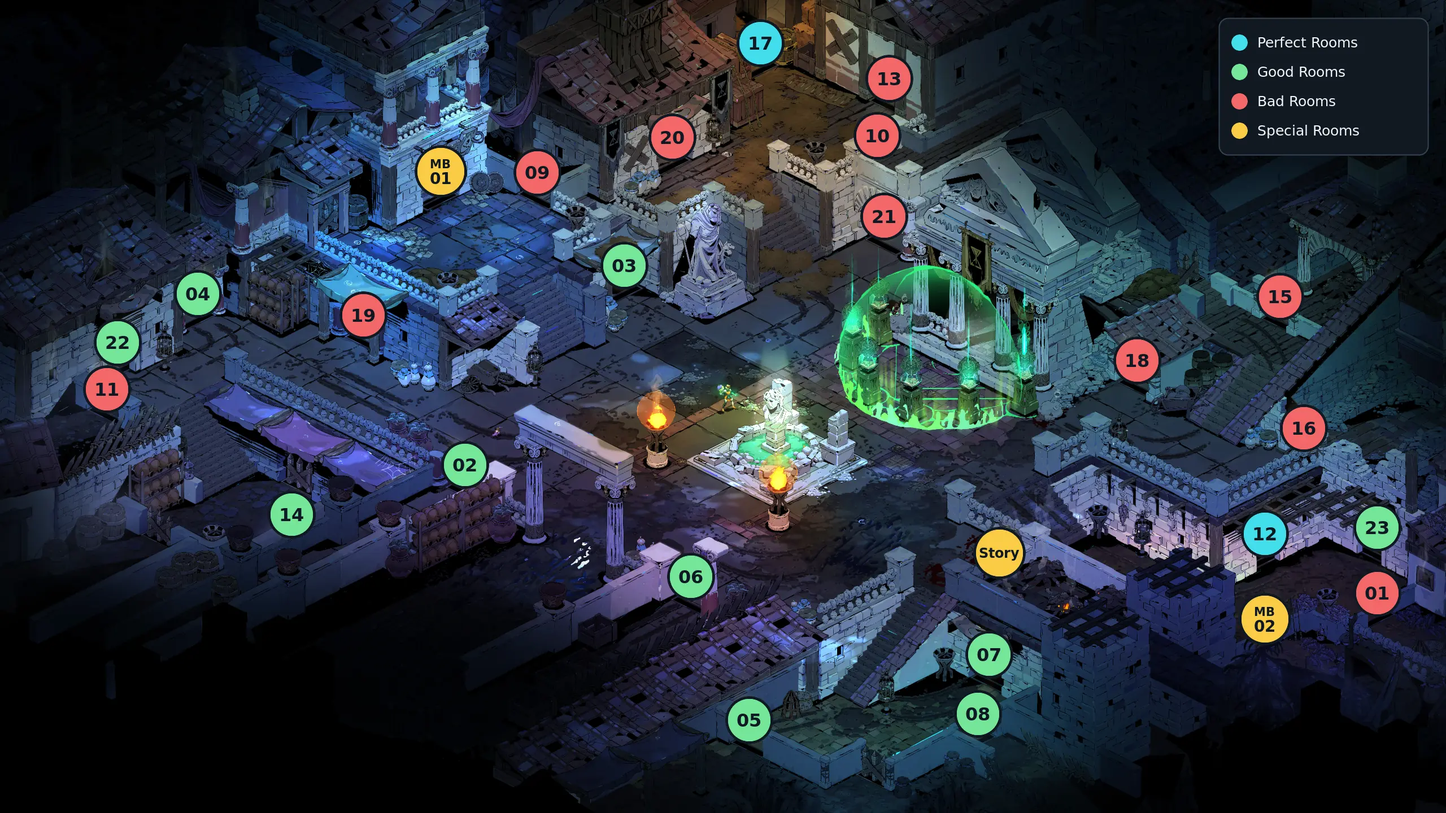
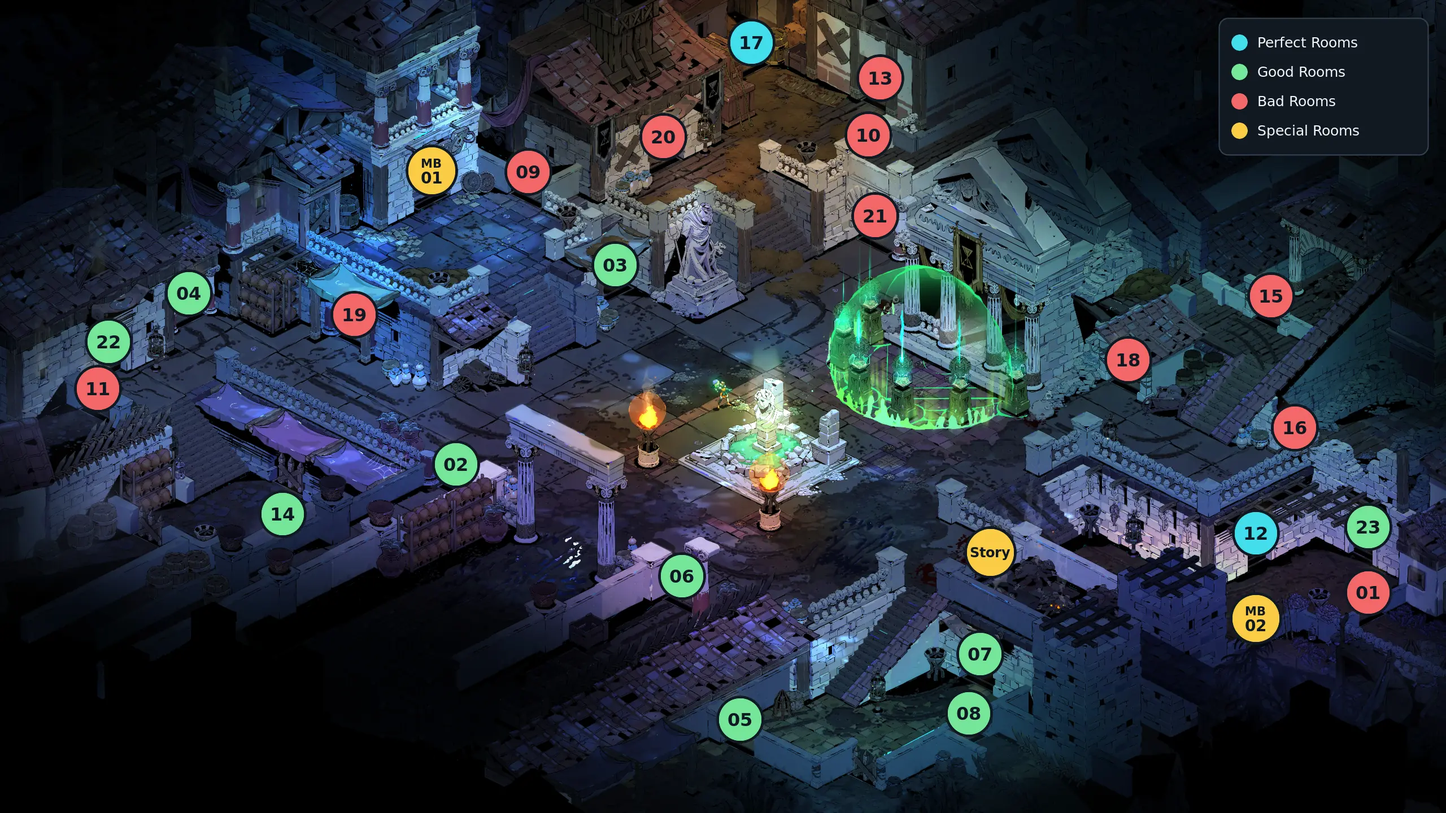
docs(planner): lock hub map editor plan and refresh reference

diff --git a/docs/progress/HUB_MAP_EDITOR_PLAN.md b/docs/progress/HUB_MAP_EDITOR_PLAN.md
@@ -1,0 +1,284 @@
+# Hub Map Editor
+
+## Status and objective
+
+Status: locked for implementation after user approval and independent plan
+review. The user-supplied recapture and its replacement annotations are prepared.
+Gate A is next; Gates B and C follow after its review.
+
+Planning base: `7d42d084` (`feat(planner): support dragging zoomed room maps`).
+The unrelated Room Capture progress document is outside this change.
+
+Give Ephyra Hub Overview and Timeline two interchangeable presentations:
+the existing List editor and a map-first editor. They edit the same Hub through
+the same application interactions. The map replaces the competing side-by-side
+reference, not the List editor or the engine's ordered visit model.
+
+## Scope and authorities
+
+Application/UI only: Hub membership, reward-control presentation, visit-order
+proposals, map assets/annotations, and finding/focus integration. No catalog,
+authored schema, simulation, candidate-policy, execution-protocol, or game-module
+changes. Existing engine commands retain ownership of topology and cleanup.
+
+Read these exact authorities when implementing the affected boundary:
+
+- `docs/design/ARCHITECTURE.md`: Application; Construction and Publication;
+  Code Placement and Imports; Adding a Feature.
+- `docs/design/EDITOR_MODEL.md`: Authored-First Assembly; Readiness, availability
+  and coverage; Bound Interactions; Findings and Navigation; Presentation and
+  Accessibility.
+- `docs/design/STRUCTURED_EDITOR_WORKSPACE.md`: Static Room Maps; Hub Decision
+  Workspace; Progressive Coverage and Findings; Removal Actions and Repair.
+- `apps/planner/src/ui/room-maps/README.md`: asset ownership and encoding.
+
+This plan deliberately replaces the Hub's static side-reference presentation
+described there. It preserves Fields Layout, ordinary map inspection, the rail,
+main/side-room editors, Hub Exit, and the completed-Hub handoff.
+
+## Current code and constraints
+
+| Responsibility                                                   | Starting neighborhood / existing product                                                      |
+| ---------------------------------------------------------------- | --------------------------------------------------------------------------------------------- |
+| Hub tabs, current map toggle, explicit finding navigation        | `ui/editor/biome/HubDecisionWorkbench.tsx`                                                    |
+| Open/close controls and main reward editor                       | `HubMembershipBoard.tsx`, `HubRoomCards.tsx`, `DoorRewardEditor.tsx` in the same neighborhood |
+| Dense visit prefix, remaining-room list, drag and arrow controls | `HubVisitTimeline.tsx`, `HubVisitRanking.tsx`                                                 |
+| Semantic membership attempts and complete visit-order proposals  | `projections/structured-workspace/interactions/hub-interaction-binding.ts`                    |
+| Presentation-only ordering                                       | `projections/structured-workspace/presentation/hub-ranking.ts`                                |
+| Fit, zoom, pan and packaged reference images                     | `ui/room-maps/RoomMapViewport.tsx`, `roomMapAssets.ts`, `room-maps.css`                       |
+| One repair-target feedback/focus path                            | `ui/feedback/useFindingTarget.tsx`; workbench `findingNavigationRevision`                     |
+
+Paths in the table are under `apps/planner/src/` unless stated otherwise.
+
+The workspace already supplies the 26 fixed slots, open state, bound reward
+surfaces, visit owners, current authored visit prefix, and required visit count.
+The map must consume these, not reconstruct a second Hub from its annotations.
+
+Opening a slot allocates occurrence identities through a bound opening attempt.
+Map rendering/hover must not allocate identities or eagerly evaluate all slots.
+Map actions must retain the same readiness and candidate checks as List actions.
+
+The persisted Hub has a dense ordered list of distinct open slot keys. It does
+not store independent per-room ranks. Conflicting numbers and ordinal gaps are
+not new supported states in this work.
+
+The current ranked-roster helper can promote a tail room when removing from a
+full prefix, and can evict the last visit when adding to it. Those implicit
+substitutions are unsuitable for the agreed explicit replacement interaction.
+Its generic `RankedPrefix` functions also serve room-action ordering: do not
+change those unrelated consumers or globally change their semantics.
+
+## Agreed experience
+
+### Two views, one source
+
+- Overview and Timeline expose `List | Map`; List is the initial view. Hub Exit
+  retains its existing presentation and has no view switch.
+- Remember each tab's view choice locally for the current Hub host. View,
+  selected marker, popover, drag, zoom and pan are not authored state or Undo
+  entries. Changing the project/Hub host cannot retain stale marker selections.
+- List retains its compact layout and controls, with no inline Hub map. Map
+  gets the available workbench width, not a second full editor beside it.
+- Switching views preserves authored values immediately; there is no map draft,
+  Apply/Save button, independent route cache, or synchronization command.
+- A loaded plan renders its actual open set and visits; only genuinely closed
+  slots start closed. Do not reset a board on entering Map mode.
+
+### Overview: membership and rewards
+
+- Show every declared door at its fixed annotation position. Closed doors are
+  subdued and explicitly identified as closed; color alone is insufficient.
+- Clicking a closed door attempts to open it using the existing bound membership
+  interaction. It does not schedule a visit or navigate to the room.
+- An open door has a compact `Opened`/reward badge. Clicking that badge (or the
+  open marker) exposes the existing reward control, not another reward picker
+  implementation. Show missing authored reward state honestly.
+- Keep full controls in one active anchored popover rather than placing editors
+  beside all 26 circles. Include an explicit Close room action there, subject
+  to the existing close capability; clicking an open circle never closes it.
+- Opening/closing and reward edits dispatch their existing single intents.
+  Re-read the current slot by stable identity after publication; do not retain
+  stale bound interactions inside a popover.
+
+### Timeline: construct a sequence
+
+- Show annotations for open rooms only, including open but unvisited rooms.
+  Closed-room annotations disappear; the underlying map does not change shape.
+- Keep room identity inside the circle. Show `Visit 1`, etc. as a distinct badge,
+  never replace room 12's identity with its chronological rank.
+- A compact strip shows the authored prefix and the next empty visit position:
+  `1 · Combat 12 → 2 · Story → [+ Next visit]`. Capacity comes from the existing
+  workspace product (currently six), not a second limit declaration.
+- Clicking an unvisited room appends it at the next position when space remains.
+  At capacity, it opens an explicit chooser naming each visit to replace. Merely
+  opening/canceling that chooser changes nothing. Replacement keeps that visit's
+  position and returns the displaced room to the unvisited open set.
+- Clicking a visited marker opens Move earlier, Move later, and Remove from
+  visits. Movement stays within the authored prefix; its endpoints disable the
+  unavailable direction. Removal shortens the prefix and compacts later visits,
+  without closing the room or promoting any unvisited room.
+- The strip supports reordering existing visits with drag and keyboard actions.
+  Moving C first in `A → B → C` yields `C → A → B`, not a duplicate rank. Selecting
+  a strip entry highlights its door; it does not navigate the rail.
+- Keep the List layout, but give equivalent named Hub actions the same explicit
+  append/remove/reorder/replace behavior. At capacity, adding a remaining room
+  requires choosing the replaced visit in either view. Do not retain a hidden
+  drag or arrow route that silently substitutes another room. List tail-only
+  presentation ordering may remain; it cannot choose the replacement implicitly.
+- Produce one complete visit-order proposal through the existing bound candidate
+  interaction and `ReplaceHubVisitOrder`. These are sequence edits, not a new
+  validator. Respect candidate/readiness outcomes rather than promising every
+  proposed permutation will be accepted. The engine alone reconciles topology,
+  occurrence liveness and any completed-handoff removal.
+
+### Findings and interaction continuity
+
+- List remains the canonical repair destination. An explicit finding navigation
+  selects its existing Hub tab, switches that tab to List, and focuses its exact
+  existing control. Repeating the same finding request must also work.
+- Ordinary edits must not repeatedly force List merely because an old finding
+  remains selected. Preserve rail selection and existing destination ownership.
+- Map markers may reflect existing repair-target feedback, but must not register
+  competing canonical targets or invent finding routing. Mount only the active
+  view; avoid duplicate semantic DOM IDs from hidden editors or popovers.
+- Apply readiness at every activation root: marker, badge, keyboard action and
+  popover control. Viewing, panning and switching views remain available while
+  authoring is locked. Never use missing evaluation to hide retained authorship.
+- Use accessible buttons and existing popover primitives. One active popover,
+  collision-aware positioning, keyboard access and Escape/focus return suffice;
+  no persistent per-door popup machinery or collision-solving framework.
+- Background drag pans; marker/control interaction does not start a viewport
+  drag. A drag or canceled pointer sequence must never open a room or append a
+  visit. Reordering the strip and panning the image have separate gesture owners.
+- Edits preserve map position. If a selected door disappears through Undo/close,
+  discard only that transient selection and return focus to an existing local
+  control. Mode/tab changes close obsolete popovers without changing authorship.
+
+## Map asset and code ownership
+
+The canonical background is the untouched 2560 × 1440 `Hades II_556.png`
+recapture, also saved as `N_Hub_Background.png`. Its replacement annotation
+source is available at:
+
+`C:/Users/Mohammed Ayyat/Saved Games/Hades II/Screenshots/New folder/Annotated/N_Hub.overlay.svg`
+
+The background files are in the parent `New folder` directory. The SVG contains
+all 26 recalibrated door positions and the user-approved Perfect/Good/Bad/Special
+categories. Coordinates are expressed directly against this capture: no image
+padding, image translation, runtime offset or retained old coordinate system.
+
+These categories are presentation metadata, not game legality or opening state.
+Keep categorization separate from Opened/Unvisited/Visit status. The screenshot
+retains the game's small door numbers and door graphics as fixed scenery; hiding
+a closed-room annotation means hiding our overlay, not erasing native scenery.
+
+Asset preparation replaces the existing flattened `N_Hub.webp` with a render of
+this new source pair so today's reference viewer also uses the new capture.
+The earlier annotated image and padded recapture are superseded, not alternate
+backgrounds. Gate A replaces the flattened runtime image with the background
+and shared live annotation layer; it does not keep two independently maintained
+maps for inspection and editing.
+
+- Package the verified background and one typed annotation description with the
+  Hub UI. Map declared game-room identities to the workspace's stable slot keys;
+  never use array position, screen coordinates, or display text as edit identity.
+- Use the source image coordinate system for a live SVG/positioned-button layer.
+  It must share the displayed image rectangle and transform under Fit/zoom/pan,
+  including letterboxing, not anchor to the surrounding scrollport.
+- Read-only Hub inspection renders all markers from the same background and
+  annotation description that drives the editor, without editing handlers.
+  Keep one declared `N_Hub` asset identity and one annotation authority. Do not
+  retain a second flattened runtime reference or introduce a fictitious room
+  into the asset discovery glob. Other room images stay ordinary static assets.
+- Export the new background as WebP quality 90, preserving dimensions. Package
+  it with browser and desktop builds; no runtime Windows paths or network fetch.
+- Keep Hub-specific composition with the existing `ui/editor/biome` Hub files;
+  a cohesive `hub-map/` child is appropriate for the map layer and its asset.
+  Shared viewport changes are limited to image-aligned overlay composition and
+  gesture isolation. No broad movement of existing editors merely for imports.
+- Shared Hub proposal/interaction behavior belongs beside current Hub projection
+  and binding owners. Extract reusable membership/reward contacts only where
+  both actual views consume them; do not duplicate candidate logic in React.
+
+## Delivery gates
+
+### A — Map Overview, end to end
+
+Deliver the verified background, fixed marker layer, List/Map switching for
+Overview, shared membership/reward interactions, pan/zoom-safe popovers, and
+canonical List finding navigation. Keep Timeline in List until B lands. Remove
+the old side-reference toggle/layout from the Hub; preserve general reference
+components used elsewhere. This is a usable vertical slice, not an asset-only
+or interface-only commit.
+
+Primary tests: `test/ui/room-maps/`, `test/ui/editor/biome/HubMembershipBoard.test.tsx`,
+`HubDecisionWorkbench.interaction.test.tsx`, and focused Hub map tests beside
+those UI owners. Reuse `test/support/hub-workbench.ts` and existing Surface
+fixtures. Binding tests own one opening-attempt/intent witness, not another
+complete membership-legality matrix.
+
+Acceptance: all 26 declared doors map exactly once to the right owner; no eager
+opening attempts; open → edit reward → switch to List → Undo/Redo agrees;
+disabled/locked marker and badge cannot bypass controls; close uses the same
+engine-owned cleanup; finding navigation from Map reaches the exact List field.
+Visually verify dense clusters and marker alignment at Fit and zoom.
+
+### B — Map Timeline and explicit shared Hub sequence actions
+
+Deliver the open-only layer, visit badges, compact strip, append/reorder/remove,
+and explicit full-sequence replacement. Adapt List actions to the same Hub
+proposals. Keep generic ranked-prefix behavior for room actions unchanged; share
+only applicable ordering and drag primitives, not implicit tail substitutions.
+Finish mode/finding/focus continuity across both tabs.
+
+Primary policy tests: `test/projections/structured-workspace/presentation/`
+owns the complete Hub sequence-edit matrix. Bound-intent contacts stay in
+`test/projections/structured-workspace/interactions/hub-interaction-binding.test.ts`.
+`test/ui/editor/biome/HubVisitRanking.test.tsx` and focused map tests prove actual
+controls; retain generic room-action ordering coverage with its existing owner.
+
+Acceptance: partial-prefix append; prefix-only reorder; remove from a full
+prefix does not substitute a tail room; explicit replacement names and replaces
+the chosen visit only; cancellation does not edit; closed rooms cannot be visited;
+List and Map display the same result after switching/Undo. Use an existing
+completed-Hub fixture to verify removal's real engine handoff cleanup and Undo
+without recreating that policy in an application helper.
+
+### C — Product review and closure
+
+Keep one representative real application workflow using existing Surface
+checkpoints: Overview membership/reward edits → Timeline append/reorder/replace
+→ switch views → finding repair → Undo/Redo. Add no large new execution fixture
+or duplicated engine policy matrix for this presentation work.
+
+Perform real-browser checks at desktop and narrow widths: nearest marker pairs,
+long reward labels, edge popovers, keyboard/Escape, pan versus click, zoomed hit
+testing, strip wrapping and pointer cancellation. Verify Fields and ordinary
+map dialogs remain usable. User visual review is part of acceptance; don't
+claim it from jsdom dimensions alone.
+
+After focused tests and independent review stabilize, run `npm run test` and
+`npm run check` once for closure. Record truthful results in the closure commit.
+Revise the owning Hub/static-map sections of `STRUCTURED_EDITOR_WORKSPACE.md`
+and the asset note to describe the resulting model; do not append a bug diary
+or duplicate it across documents. Delete this temporary plan at closure.
+
+## Review and retirement boundaries
+
+For each implementation gate, the main session supplies a bounded executor
+packet, one write owner, and a fresh independent review after stabilization.
+Review shared behavior against both views, current engine capabilities, and
+unrelated room-action consumers, not solely screenshots or synthetic proposals.
+Each gate has one coherent implementation commit after review; no automatic
+commit before any user-requested inspection.
+
+Retire the old Hub side-reference layout/toggle, flattened Hub runtime reference,
+and superseded Hub-only implicit promotion/eviction paths. Update their owning
+tests, retaining the generic tests that still describe room-action behavior.
+Keep List controls, exact repair targets, other rooms' static inspection assets,
+and shared references used by Fields.
+
+Non-goals: independent numeric ranks, conflict-tolerant rank persistence, a new
+graph/editor library, route-line drawing, map-based room-detail navigation,
+interactive Fields placement, inferred reward eligibility, new native game
+hooks, revised Hub visit legality, schema migration, or execution fixture churn.
